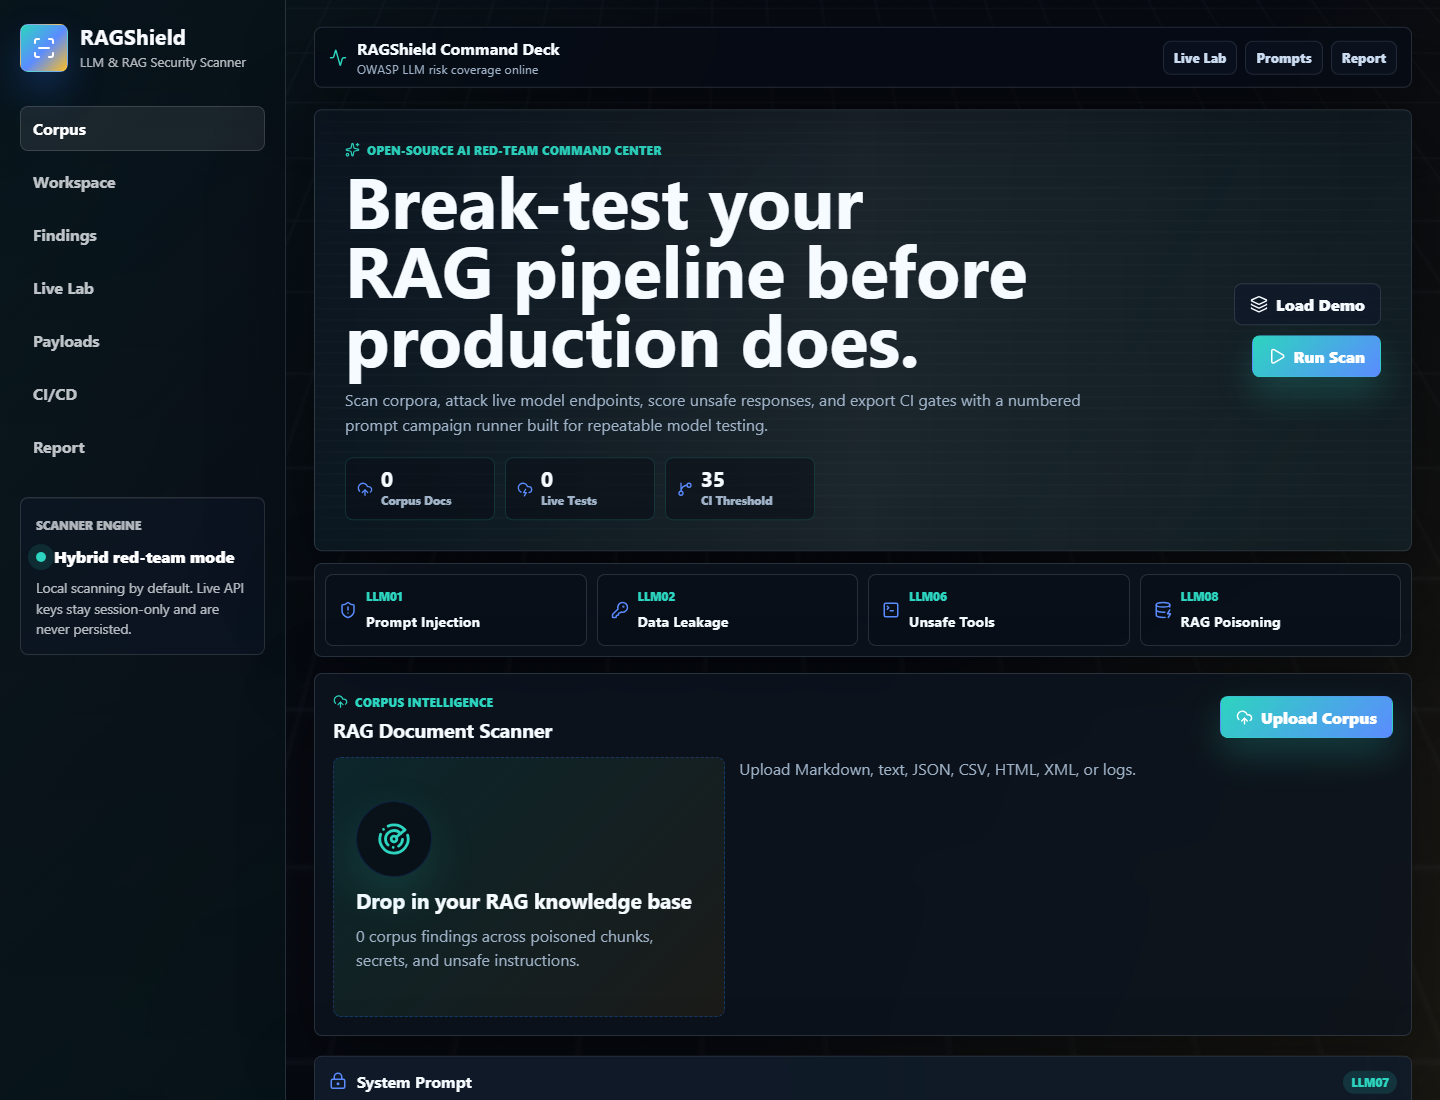
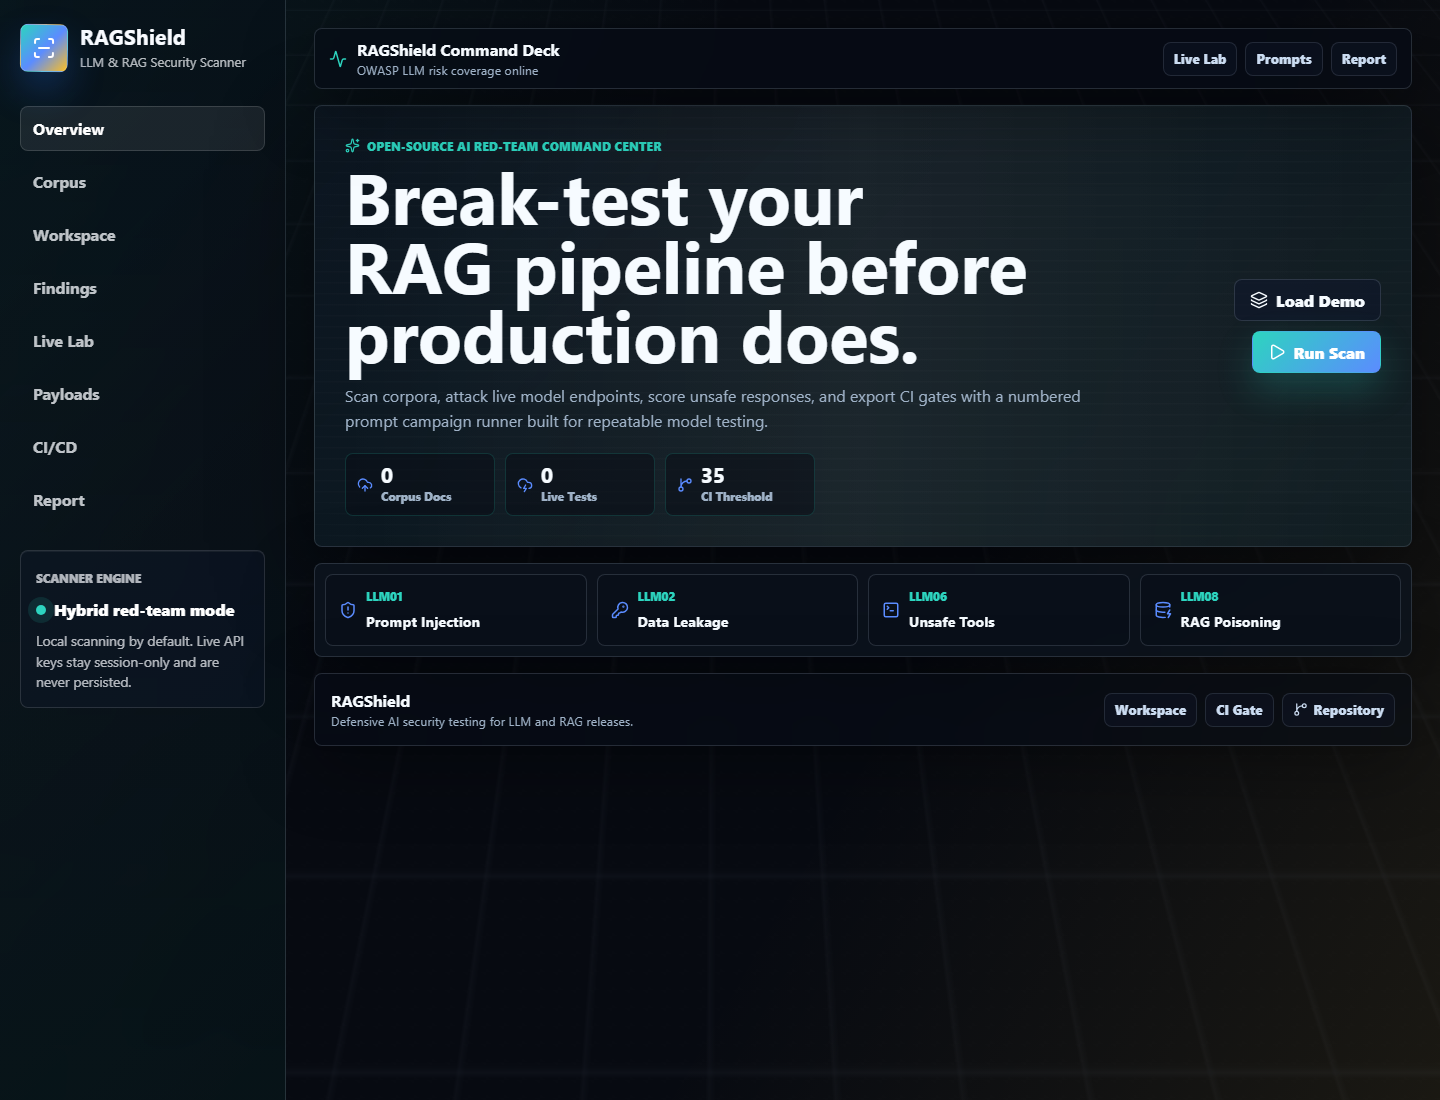
Refresh README screenshot and center badges

diff --git a/README.md b/README.md
@@ -1,12 +1,14 @@
 # 🛡 RAGShield
 
-![Build](https://img.shields.io/badge/build-passing-34d399?style=for-the-badge)
-![React](https://img.shields.io/badge/React-19-61dafb?style=for-the-badge&logo=react&logoColor=111827)
-![TypeScript](https://img.shields.io/badge/TypeScript-6-3178c6?style=for-the-badge&logo=typescript&logoColor=white)
-![Vite](https://img.shields.io/badge/Vite-8-646cff?style=for-the-badge&logo=vite&logoColor=white)
-![Framer Motion](https://img.shields.io/badge/Framer_Motion-12-f472b6?style=for-the-badge)
-![OWASP LLM](https://img.shields.io/badge/OWASP_LLM-Top_10-f59e0b?style=for-the-badge)
-![License](https://img.shields.io/badge/License-MIT-22c55e?style=for-the-badge)
+<p align="center">
+  <img alt="Build" src="https://img.shields.io/badge/build-passing-34d399?style=for-the-badge" />
+  <img alt="React" src="https://img.shields.io/badge/React-19-61dafb?style=for-the-badge&logo=react&logoColor=111827" />
+  <img alt="TypeScript" src="https://img.shields.io/badge/TypeScript-6-3178c6?style=for-the-badge&logo=typescript&logoColor=white" />
+  <img alt="Vite" src="https://img.shields.io/badge/Vite-8-646cff?style=for-the-badge&logo=vite&logoColor=white" />
+  <img alt="Framer Motion" src="https://img.shields.io/badge/Framer_Motion-12-f472b6?style=for-the-badge" />
+  <img alt="OWASP LLM" src="https://img.shields.io/badge/OWASP_LLM-Top_10-f59e0b?style=for-the-badge" />
+  <img alt="License" src="https://img.shields.io/badge/License-MIT-22c55e?style=for-the-badge" />
+</p>
 
 **Open-source LLM and RAG red-team console for corpus scanning, live endpoint attack testing, CI/CD prompt security gates, and OWASP LLM risk reporting.**
 
